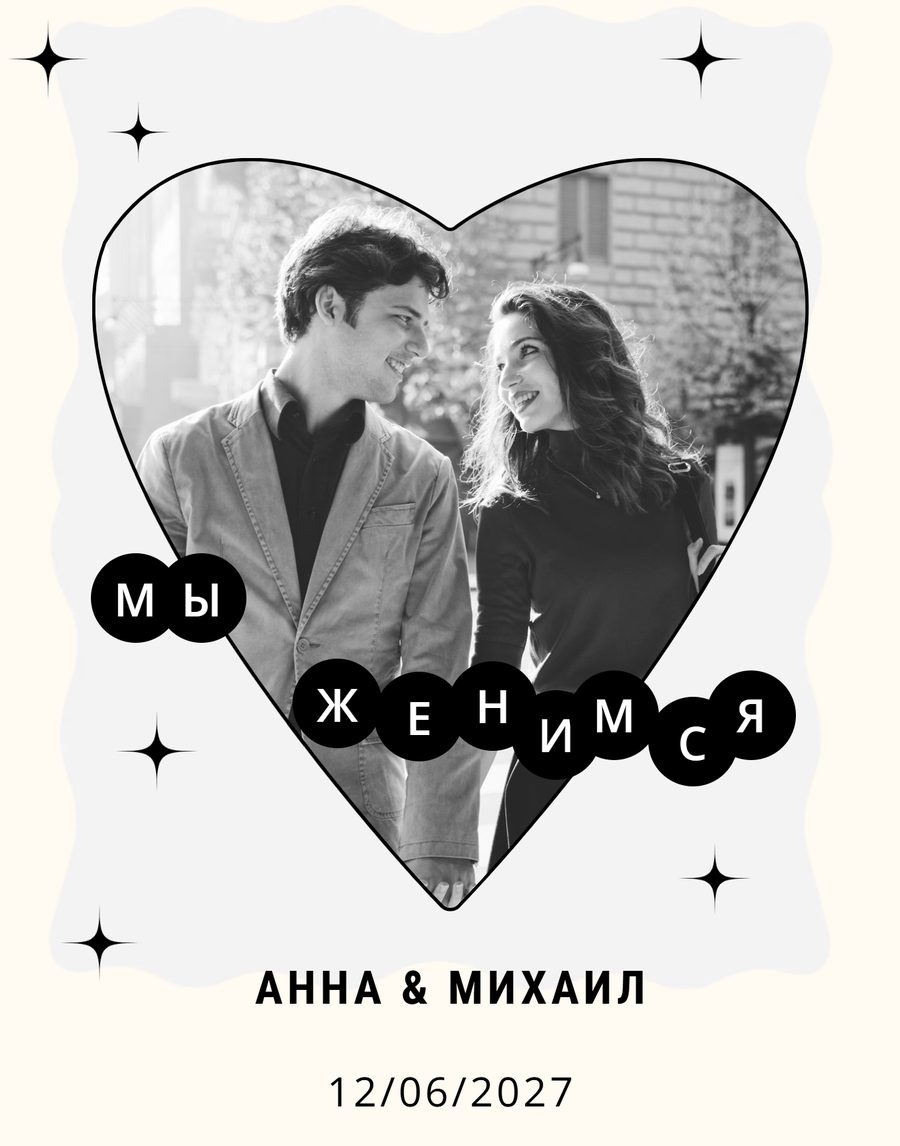
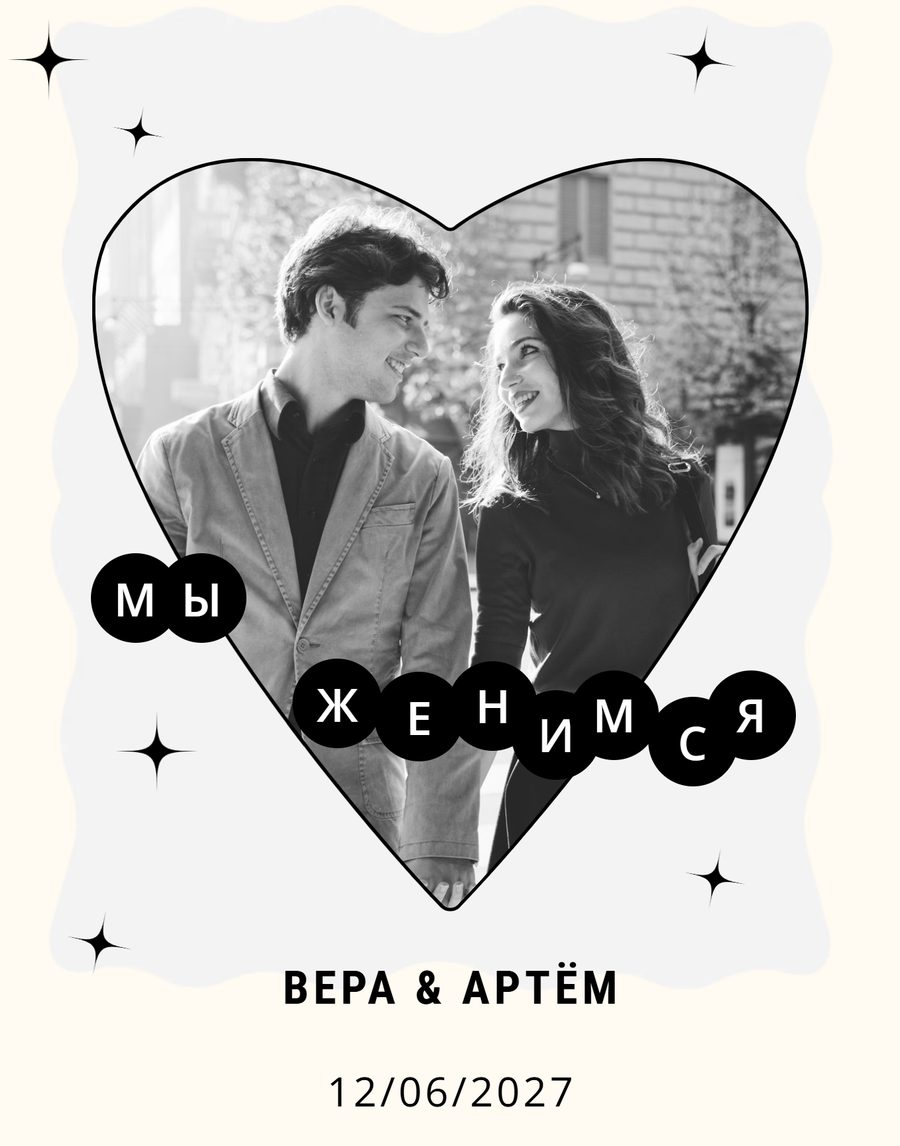
«Фотобудка»: новая танцующая пара, белая лента, вешалки выезжают
- Вместо картинки из макета — своя векторная пара (жених в смокинге,
  невеста в белом платье, свои лица) и настоящий танец: руки, колени,
  юбка и фата двигаются, бокалы чокаются с искоркой. При «меньше
  движения» — неподвижная пара.
- Демо-имена — Вера и Артём.
- Лента фотобудки белая и выезжает из камеры одним плавным движением.
- Дресс-код: вешалки выезжают по рейке одна за другой и покачиваются;
  своё фото образов — вместо них.
- Пластинка крутится вслед за прокруткой, сердце едет по пунктиру
  «Планов на эту ночь»; диско-шар качается, искры мерцают.

diff --git a/frontend/public/invite/photobooth/styles.css b/frontend/public/invite/photobooth/styles.css
@@ -245,11 +245,11 @@ html:not(.intro-on) .intro:not(.wc-ip-layer) { display: none; }
   position: absolute; left: calc(10 * var(--iu)); top: 0;
   width: calc(617 * var(--iu));
   padding: calc(42 * var(--iu)) calc(42 * var(--iu)) 0;
-  background: var(--strip);
-  box-shadow: 0 calc(10 * var(--iu)) calc(24 * var(--iu)) rgba(0, 0, 0, .18);
+  background: #fff;
+  box-shadow: 0 0 0 calc(2 * var(--iu)) rgba(0, 0, 0, .06), 0 calc(12 * var(--iu)) calc(28 * var(--iu)) rgba(0, 0, 0, .16);
   transform: translateY(-101%);
 }
-.strip__frame { height: calc(414 * var(--iu)); overflow: hidden; background: #3b2423; }
+.strip__frame { height: calc(414 * var(--iu)); overflow: hidden; background: #e9e6e0; }
 .strip__frame + .strip__frame { margin-top: calc(37 * var(--iu)); }
 .strip__frame img { display: block; width: 100%; height: 100%; object-fit: cover; }
 .strip__date {
@@ -258,17 +258,13 @@ html:not(.intro-on) .intro:not(.wc-ip-layer) { display: none; }
   font-family: var(--f-head); font-weight: 700;
   font-size: calc(62 * var(--iu));
   letter-spacing: .16em; padding-left: .16em;
-  color: #fff7f0;
+  color: #111;
   white-space: nowrap;
 }
-.intro.is-print .strip { animation: print 3.2s cubic-bezier(.35, .1, .3, 1) .15s both; }
+.intro.is-print .strip { animation: print 3.2s cubic-bezier(.33, .05, .22, 1) .15s both; }
 @keyframes print {
-  0%   { transform: translateY(-101%); }
-  22%  { transform: translateY(-74%); }
-  28%  { transform: translateY(-72%); }
-  58%  { transform: translateY(-31%); }
-  64%  { transform: translateY(-29%); }
-  100% { transform: translateY(0); }
+  from { transform: translateY(-101%); }
+  to   { transform: translateY(0); }
 }
 .intro.is-done .strip { transform: none; }
 
@@ -383,9 +379,8 @@ html.no-anim .hero-in, html.no-anim .dot { transition: none !important; }
 .greet__vinyl {
   position: absolute; left: calc(-324.5 * var(--u)); top: calc(15.9 * var(--u));
   width: calc(711 * var(--u)); height: auto;
-  animation: spin 9s linear infinite;
+  will-change: transform;
 }
-@keyframes spin { to { transform: rotate(360deg); } }
 .greet__head { position: relative; z-index: 1; display: block; margin: 0; padding: 0 calc(148 * var(--u)) 0 calc(460 * var(--u)); text-align: right; }
 .greet__label {
   display: block;
@@ -464,7 +459,7 @@ html.no-anim .hero-in, html.no-anim .dot { transition: none !important; }
 .plans__title { margin-left: calc(157 * var(--u)); max-width: calc(860 * var(--u)); }
 .plans__sub { margin: calc(47 * var(--u)) calc(60 * var(--u)) 0 calc(156 * var(--u)); letter-spacing: .117em; }
 .prog { position: relative; margin-top: calc(137 * var(--u)); padding-top: calc(59 * var(--u)); }
-.prog__heart { position: absolute; left: calc(291 * var(--u)); top: calc(8 * var(--u)); width: calc(73 * var(--u)); height: auto; z-index: 1; }
+.prog__heart { pointer-events: none; }
 .prog__svg { position: absolute; left: 0; top: 0; width: 100%; height: 100%; overflow: visible; pointer-events: none; }
 .prog__path { fill: none; stroke: rgba(255, 250, 242, .75); stroke-width: calc(4 * var(--u)); stroke-dasharray: calc(14 * var(--u)) calc(12 * var(--u)); stroke-linecap: round; }
 .prog__row {
@@ -511,7 +506,30 @@ html.no-anim .hero-in, html.no-anim .dot { transition: none !important; }
   box-shadow: inset 0 0 0 calc(4 * var(--u)) #3a3533;
 }
 .dress__rail { height: calc(2.5 * var(--u)); margin-top: calc(88 * var(--u)); background: #000; }
+/* Вешалки по умолчанию: четыре части выезжают справа по рейке одна за другой
+   и покачиваются, пока не замрут. Своё фото образов — вместо них */
+.dress__stage { position: relative; }
+.rack { position: relative; width: calc(1261 * var(--u)); height: calc(1091 * var(--u)); margin-left: calc(83 * var(--u)); }
+.rack__item {
+  position: absolute; top: 0; left: calc(var(--x) * var(--u)); width: calc(var(--w) * var(--u));
+  transform: translateX(calc(1500 * var(--u)));
+}
+.rack__item img { display: block; width: 100%; height: auto; transform-origin: 50% 0; }
+.rack.in .rack__item { animation: rackIn 1.5s cubic-bezier(.16, .84, .3, 1) calc(var(--i) * .16s) both; }
+.rack.in .rack__item img { animation: rackSwing 2.2s ease-out calc(1.05s + var(--i) * .16s) both; }
+@keyframes rackIn { from { transform: translateX(calc(1500 * var(--u))); } to { transform: none; } }
+@keyframes rackSwing {
+  0%   { transform: rotate(-5deg); }
+  30%  { transform: rotate(3deg); }
+  55%  { transform: rotate(-1.6deg); }
+  78%  { transform: rotate(.7deg); }
+  100% { transform: rotate(0); }
+}
+html.no-anim .rack__item, html.no-anim .rack__item img { transform: none !important; animation: none !important; }
 .dress__clothes { display: block; width: calc(1261 * var(--u)); height: auto; margin-left: calc(83 * var(--u)); }
+/* по умолчанию картинка вешалок — невидимая подложка под частями (её находит редактор) */
+.dress:not(.has-own) .dress__clothes { position: absolute; left: 0; top: 0; opacity: 0; pointer-events: none; }
+.dress.has-own .rack { display: none; }
 .dress__clothes[src*="/uploads/"], .dress__clothes[src^="blob:"], .dress__clothes[src^="data:"] {
   width: calc(1100 * var(--u)); margin: calc(60 * var(--u)) auto 0; border-radius: calc(20 * var(--u));
 }
@@ -681,9 +699,19 @@ html.no-anim .hero-in, html.no-anim .dot { transition: none !important; }
 }
 .fin__band::before { bottom: calc(100% - 1px); }
 .fin__band::after { top: calc(100% - 1px); background-image: url("assets/wave-band-bot.svg"); background-position: calc(-200 * var(--u)) 0; }
-.fin__doodle { position: absolute; left: calc(992 * var(--u)); top: calc(-27 * var(--u)); width: calc(368 * var(--u)); height: auto; }
+.fin__doodle { position: absolute; left: calc(992 * var(--u)); top: calc(-27 * var(--u)); width: calc(368 * var(--u)); height: auto; transform-origin: 57% 0; animation: hang 2.6s ease-in-out infinite alternate; }
+@keyframes hang { from { transform: rotate(-7deg); } to { transform: rotate(7deg); } }
+.fin__band .spark, .hero .spark { animation: twinkle 3.2s ease-in-out infinite; }
+.hero .spark:nth-of-type(2n) { animation-delay: -1.1s; }
+.hero .spark:nth-of-type(3n) { animation-delay: -2.2s; }
+.menu__cloche { animation: lid 3.4s ease-in-out infinite alternate; }
+@keyframes lid { from { transform: translateY(0) rotate(0); } to { transform: translateY(calc(-18 * var(--u))) rotate(-2deg); } }
+.rsvp__sparkles { animation: lid 4s ease-in-out infinite alternate; }
+@media (prefers-reduced-motion: reduce) {
+  .fin__doodle, .hero .spark, .fin__band .spark, .menu__cloche, .rsvp__sparkles { animation: none !important; }
+}
 .fin__title { position: relative; margin: 0 calc(200 * var(--u)) 0 calc(124 * var(--u)); }
-.fin__photo { width: calc(1132 * var(--u)); height: calc(544 * var(--u)); margin: calc(206 * var(--u)) 0 0 calc(97 * var(--u)); overflow: hidden; }
+.fin__photo { width: calc(1132 * var(--u)); height: calc(1011 * var(--u)); margin: calc(150 * var(--u)) 0 0 calc(97 * var(--u)); overflow: hidden; }
 .fin__photo img { display: block; width: 100%; height: 100%; object-fit: cover; }
 .fin__names { margin-top: calc(98 * var(--u)); text-align: center; padding-left: .09em; white-space: nowrap; font-size: calc(var(--nfs2, 78) * var(--u)); }
 .cd { margin-top: calc(51 * var(--u)); text-align: center; }

diff --git a/frontend/public/invite/photobooth/index.html b/frontend/public/invite/photobooth/index.html
@@ -3,7 +3,7 @@
 <head>
   <meta charset="UTF-8" />
   <meta name="viewport" content="width=device-width, initial-scale=1.0, viewport-fit=cover" />
-  <title>Анна и Михаил — приглашение на свадьбу</title>
+  <title>Вера и Артём — приглашение на свадьбу</title>
   <!-- До отрисовки: в редакторе заставка — слой на обложке (не поверх сайта),
        без анимации в тарифе (intro=0) и при «меньше движения» — сразу сайт -->
   <script>
@@ -83,7 +83,7 @@
       <img class="spark hero-in hero-in--2" style="--x:176;--y:1080;--w:123" src="assets/spark-black.webp" alt="" />
       <img class="spark hero-in hero-in--2" style="--x:92;--y:1374;--w:117" src="assets/spark-black.webp" alt="" />
       <img class="spark hero-in hero-in--2" style="--x:1029;--y:1279;--w:110" src="assets/spark-black.webp" alt="" />
-      <h1 class="hero__names hero-in hero-in--3" id="heroNames"><span data-name="bride">Анна</span> &amp; <span data-name="groom">Михаил</span></h1>
+      <h1 class="hero__names hero-in hero-in--3" id="heroNames"><span data-name="bride">Вера</span> &amp; <span data-name="groom">Артём</span></h1>
       <p class="hero__date hero-in hero-in--3" id="heroDate" data-edit="heroDate">12/06/2027</p>
     </section>
 
@@ -127,8 +127,10 @@
       <h2 class="title plans__title rv" data-edit="programTitle">Планы на эту ночь</h2>
       <p class="label plans__sub rv" data-edit="programSubtitle">Один день, тысяча воспоминаний</p>
       <div class="prog" id="prog">
-        <svg class="prog__svg" id="progSvg" aria-hidden="true"><path id="progPath" class="prog__path" d="" /></svg>
-        <img width="73" height="66" class="prog__heart" src="assets/heart-white.webp" alt="" />
+        <svg class="prog__svg" id="progSvg" aria-hidden="true">
+          <path id="progPath" class="prog__path" d="" />
+          <image id="progHeart" class="prog__heart" href="assets/heart-white.webp" width="73" height="66" x="-200" y="-200" />
+        </svg>
         <!-- пункты .prog__row строит script.js из расписания -->
       </div>
     </section>
@@ -142,7 +144,15 @@
         <span style="--c:#000000"></span><span style="--c:#ffffff"></span><span style="--c:#766a66"></span>
       </div>
       <div class="dress__rail"></div>
-      <img width="1261" height="1091" class="dress__clothes rv-soft" src="assets/clothes.webp" data-edit="dressCodePhoto" alt="Образы гостей" loading="lazy" decoding="async" />
+      <div class="dress__stage">
+        <div class="rack" id="rack" aria-hidden="true">
+          <span class="rack__item" style="--x:0;--w:180;--i:0"><img width="180" height="922" src="assets/rack-1.webp" alt="" loading="lazy" decoding="async" /></span>
+          <span class="rack__item" style="--x:199;--w:530;--i:1"><img width="530" height="1084" src="assets/rack-2.webp" alt="" loading="lazy" decoding="async" /></span>
+          <span class="rack__item" style="--x:748;--w:205;--i:2"><img width="205" height="1091" src="assets/rack-3.webp" alt="" loading="lazy" decoding="async" /></span>
+          <span class="rack__item" style="--x:992;--w:269;--i:3"><img width="269" height="926" src="assets/rack-4.webp" alt="" loading="lazy" decoding="async" /></span>
+        </div>
+        <img width="1261" height="1091" class="dress__clothes" src="assets/clothes.webp" data-edit="dressCodePhoto" alt="Образы гостей" loading="lazy" decoding="async" />
+      </div>
     </section>
 
     <!-- 7 — ЛОКАЦИЯ -->
@@ -168,7 +178,7 @@
       </div>
       <div class="wish rv">
         <p class="label wish__label"><img src="assets/spark-white.webp" alt="" /><span data-edit="wish3Title">Есть вопросы</span></p>
-        <div class="wish__text" data-edit="wish3Text"><p>Напишите нам — поможем со всеми деталями.</p><p>Анна · +7 (999) 123-45-67</p></div>
+        <div class="wish__text" data-edit="wish3Text"><p>Напишите нам — поможем со всеми деталями.</p><p>Вера · +7 (999) 123-45-67</p></div>
       </div>
     </section>
 
@@ -214,8 +224,8 @@
         <img class="spark" style="--x:109;--y:62;--w:127" src="assets/spark-black.webp" alt="" />
         <img class="spark" style="--x:1134;--y:582;--w:127" src="assets/spark-black.webp" alt="" />
         <h2 class="title fin__title rv" data-edit="closingTitle">До встречи на танцполе!</h2>
-        <div class="fin__photo rv-soft"><img src="assets/couple-dance.jpg" data-edit="closingPhoto" alt="Мы танцуем" loading="lazy" decoding="async" /></div>
-        <p class="title title--s fin__names rv" id="finNames"><span data-name="bride">Анна</span> &amp; <span data-name="groom">Михаил</span></p>
+        <div class="fin__photo rv-soft"><img width="1030" height="920" src="assets/dance.svg" data-edit="closingPhoto" alt="Жених и невеста танцуют" loading="lazy" decoding="async" /></div>
+        <p class="title title--s fin__names rv" id="finNames"><span data-name="bride">Вера</span> &amp; <span data-name="groom">Артём</span></p>
         <div class="cd rv" data-wc-section="countdown" aria-live="off">
           <p class="label cd__title" data-edit="countdownTitle">До нашей встречи</p>
           <div class="cd__row">

diff --git a/frontend/public/invite/photobooth/script.js b/frontend/public/invite/photobooth/script.js
@@ -18,7 +18,7 @@
   var STATE = {
     apiBase: '', slug: '', guestToken: '', guestName: '',
     date: '2027-06-12', time: '16:00',
-    groom: 'Михаил', bride: 'Анна',
+    groom: 'Артём', bride: 'Вера',
     scheduleSig: '',
     paraSig: {}
   };
@@ -325,6 +325,43 @@
     }
     svg.setAttribute('viewBox', '0 0 ' + W + ' ' + H);
     path.setAttribute('d', d);
+    TRACK.u = u;
+    try { TRACK.len = path.getTotalLength(); } catch (e) { TRACK.len = 0; }
+    TRACK.y0 = pts[0][1];
+    TRACK.y1 = pts[pts.length - 1][1];
+    var heart = document.getElementById('progHeart');
+    if (heart) { heart.setAttribute('width', (73 * u).toFixed(1)); heart.setAttribute('height', (66 * u).toFixed(1)); }
+    updateHeart();
+  }
+
+  // Сердце — на пунктире, вслед за прокруткой (позиция атрибутом, без переходов)
+  var TRACK = { len: 0, y0: 0, y1: 0, u: 1 };
+  function updateHeart() {
+    var prog = document.getElementById('prog');
+    var path = document.getElementById('progPath');
+    var heart = document.getElementById('progHeart');
+    if (!prog || !path || !heart || !TRACK.len) return;
+    var top = prog.getBoundingClientRect().top;
+    var span = TRACK.y1 - TRACK.y0;
+    var p = span > 0 ? (window.innerHeight * 0.55 - (top + TRACK.y0)) / span : 0;
+    p = Math.max(0, Math.min(1, p));
+    var pt;
+    try { pt = path.getPointAtLength(p * TRACK.len); } catch (e) { return; }
+    heart.setAttribute('x', (pt.x - 36.5 * TRACK.u).toFixed(1));
+    heart.setAttribute('y', (pt.y - 33 * TRACK.u).toFixed(1));
+  }
+
+  // Пластинка крутится вслед за прокруткой
+  var vinylEl = null;
+  function updateVinyl() {
+    if (!vinylEl || REDUCED) return;
+    vinylEl.style.transform = 'rotate(' + ((window.pageYOffset || 0) * 0.32).toFixed(1) + 'deg)';
+  }
+  var scrollQueued = false;
+  function onScroll() {
+    if (scrollQueued) return;
+    scrollQueued = true;
+    requestAnimationFrame(function () { scrollQueued = false; updateHeart(); updateVinyl(); });
   }
 
   /* ─── Дресс-код: цвета кружками ───────────────────── */
@@ -451,6 +488,17 @@
       });
     }, { threshold: 0, rootMargin: '0px 0px 10% 0px' });
     observeReveal(document);
+    var rack = document.getElementById('rack');
+    if (rack) {
+      var ioRack = new IntersectionObserver(function (entries) {
+        entries.forEach(function (e) {
+          if (!e.isIntersecting) return;
+          rack.classList.add('in');
+          ioRack.disconnect();
+        });
+      }, { threshold: 0.25 });
+      ioRack.observe(rack);
+    }
   }
   function observeReveal(scope) {
     (scope || document).querySelectorAll(REVEAL).forEach(function (el) {
@@ -460,8 +508,9 @@
 
   /* ─── Пластинка: нажатие включает и выключает музыку ── */
   function initVinyl() {
-    var v = document.getElementById('vinyl');
+    var v = vinylEl = document.getElementById('vinyl');
     if (!v) return;
+    updateVinyl();
     v.addEventListener('click', function () {
       var b = document.querySelector('.wc-music-btn');
       if (b) b.click();
@@ -621,12 +670,26 @@
     setImg('stripPhoto1', d.stripPhoto1);
     setImg('stripPhoto2', d.stripPhoto2);
     setImg('dressCodePhoto', d.dressCodePhoto);
+    var clothes = document.querySelector('.dress__clothes'), dress = document.querySelector('.dress');
+    if (clothes && dress) {
+      var def = '';
+      try { def = new URL(clothes.getAttribute('data-def') || '', window.location.href).href; } catch (e) {}
+      dress.classList.toggle('has-own', !!clothes.src && clothes.src !== def);
+    }
     setImg('closingPhoto', d.closingPhoto);
+    stillDance();
     if (window.WCPhotoFrame) window.WCPhotoFrame.apply(d.photoFrames);
 
     rebuildColors(d.dressCodeColors);
     applySchedule(d.schedule);
     rebuildDrinks(d.drinks);
+  }
+
+  // «Меньше движения»: вместо танца — неподвижная пара
+  function stillDance() {
+    if (!REDUCED) return;
+    var img = document.querySelector('img[data-edit="closingPhoto"]');
+    if (img && /assets\/dance\.svg$/.test(img.getAttribute('src') || '')) img.setAttribute('src', 'assets/dance-still.svg');
   }
 
   function dataFromUrl() {
@@ -653,6 +716,7 @@
     });
     initReveal();
     applySchedule(DEFAULT_SCHEDULE);
+    window.addEventListener('scroll', onScroll, { passive: true });
     window.addEventListener('resize', function () { layoutTrack(); fitNames(); fitGreeting(); }, { passive: true });
     window.addEventListener('load', function () { layoutTrack(); fitNames(); fitGreeting(); });
     if ('ResizeObserver' in window) {

diff --git a/frontend/src/lib/constants.ts b/frontend/src/lib/constants.ts
@@ -164,8 +164,8 @@ const HANDMADE_TEMPLATES = [
     preview: '/invite/photobooth/assets/preview.jpg',
     defaultCover: '/invite/photobooth/assets/cover.jpg',
     defaultGallery: [] as string[],
-    sampleBride: 'Анна',
-    sampleGroom: 'Михаил',
+    sampleBride: 'Вера',
+    sampleGroom: 'Артём',
     sampleDaysAhead: 199,
   },
   {
@@ -1318,7 +1318,7 @@ const HANDMADE_TEMPLATE_FIELDS: Record<string, TemplateSection[]> = {
       title: 'Завершение', icon: '💍',
       fields: [
         { id: 'closingTitle', type: 'text',  label: 'Финальный заголовок', scope: 'custom', maxLength: 40 },
-        { id: 'closingPhoto', type: 'image', label: 'Картинка над именами', hint: 'Пусто — танцующая пара из макета', scope: 'custom' },
+        { id: 'closingPhoto', type: 'image', label: 'Картинка над именами', hint: 'Пусто — танцующие жених и невеста', scope: 'custom' },
       ],
     },
     MUSIC_SECTION,
@@ -2384,13 +2384,13 @@ const HANDMADE_TEMPLATE_DEFAULTS: Record<string, TemplateDefaults> = {
       wish2Title:      'О цветах',
       wish2Text:       'Вместо букета принесите хорошее настроение и любимую песню для нашего танцпола.',
       wish3Title:      'Есть вопросы',
-      wish3Text:       'Напишите нам — поможем со всеми деталями.\nАнна · +7 (999) 123-45-67',
+      wish3Text:       'Напишите нам — поможем со всеми деталями.\nВера · +7 (999) 123-45-67',
       surveyTitle:     'Вы с нами?',
       surveyText:      'Без вас эта вечеринка не будет полной. Ответьте, пожалуйста, до {{rsvpDate}}.',
       rsvpChildren:    true,
       rsvpQuestions:   ['menu', 'allergy'],
       closingTitle:    'До встречи на танцполе!',
-      closingPhoto:    '/invite/photobooth/assets/couple-dance.jpg',
+      closingPhoto:    '/invite/photobooth/assets/dance.svg',
       countdownTitle:  'До нашей встречи',
     },
   },

diff --git a/frontend/src/components/PhotoboothTemplate.tsx b/frontend/src/components/PhotoboothTemplate.tsx
@@ -144,8 +144,8 @@ export default function PhotoboothTemplate({ data, apiBase, fullPage, slug, edit
   const head = "'Roboto Condensed', 'Arial Narrow', Arial, sans-serif";
   const text = "'Open Sans', 'Segoe UI', Arial, sans-serif";
   const custom = data.customData || {};
-  const groom = data.groomName || 'Михаил';
-  const bride = data.brideName || 'Анна';
+  const groom = data.groomName || 'Артём';
+  const bride = data.brideName || 'Вера';
   const names = `${bride} & ${groom}`;
   // Как fitNames в script.js: строка не шире 1240, ~0,68 кегля на знак с разрядкой
   const nfs = Math.min(78, 1240 / (names.length * 0.68));
